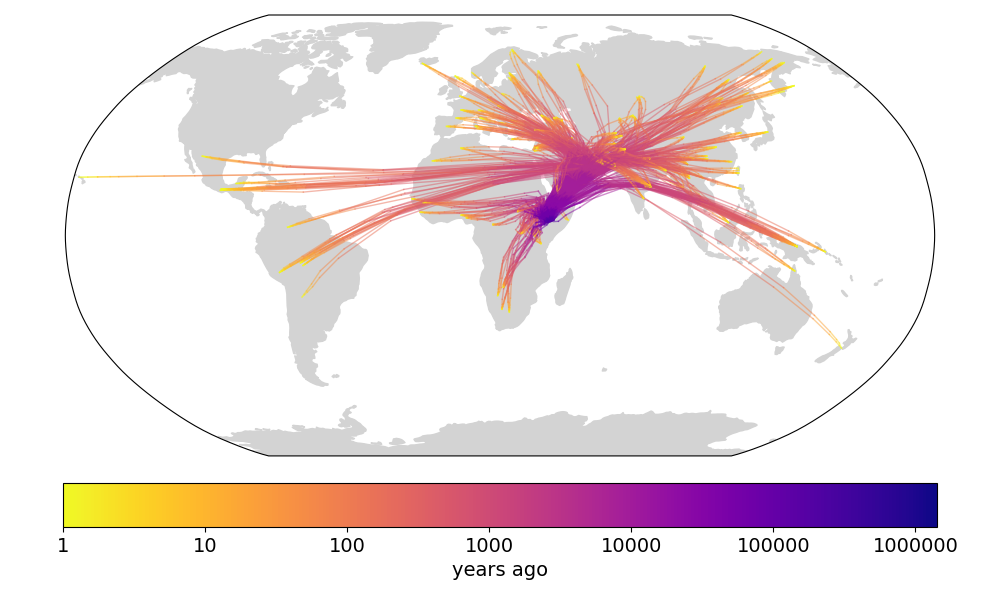
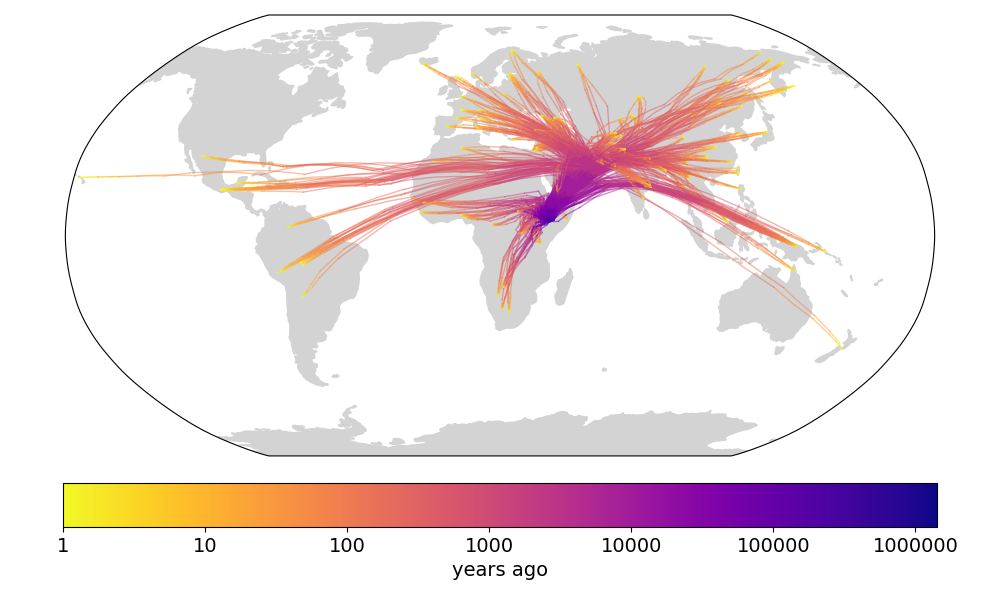
shifted plot added, puneeths comments too

diff --git a/spacetrees-sgdp.html b/spacetrees-sgdp.html
@@ -44,7 +44,7 @@ The Relate-inferred ARG for the Simons Genome Diversity Project was kindly share
 <h3>Comparing with Wohns et al 2022</h3>
 
 <p>
-We first compare to Figure 4b in Wohns et al 2022 (fig 1). They show the mean ancestor location of each Human Genome Diversity Project population over time, converging in northeast Africa. We compare this to the mean ancestor location of each sample in our ARG over time. One key difference is that we work in latitude and longitude rather than Cartesian coordinates, creating trajectories that are less arced. However, despite a different coordinate system, sample, chromosome, and ARG-inference method, the two spatial-inference methods give similar qualitative results -- the non-African sample lineages converging in the middle east and then all lineages meeting in (north)eastern Africa. (todo: one of the most unrealistic things about this is the trans-atlantic movement of indigenous north american sample lineages, add alternative version where lineages cross over the pacific. alternatively, would be fun to show things on dymaxion projection.)
+We first compare to Figure 4b in Wohns et al 2022 (fig 1). They show the mean ancestor location of each Human Genome Diversity Project population over time, converging in northeast Africa. We compare this to the mean ancestor location of each sample in our ARG over time. One key difference is that we work in latitude and longitude rather than Cartesian coordinates, creating trajectories that are less arced. However, despite a different coordinate system, sample, chromosome, and ARG-inference method, the two spatial-inference methods give similar qualitative results -- the non-African sample lineages converging in the middle east and then all lineages meeting in (north)eastern Africa. Our method also shows more variance in mean ancestor location ~1 million years ago, perhaps because we use do not always find the true maximum likelihood ancestor location when the likelihood surface gets very flat, introducing some noise, or because Wohns et al 2022 also average over population. One of the most unrealistic patterns in these plots is the eastward movement of the North American sample lineages back to Eurasia over the Atlantic -- see appendix for ways to avoid this. 
 <img src="IMAGES/wohns_4b_real.png" alt="fig 4b in Wohns et al 2022">
 <img src="IMAGES/wohns_4b.png" alt="comparison to fig 4b in Wohns et al 2022">
 <b>Fig 1:</b> (top) Fig 4b from Wohns et al 2022. (bottom) Our version. (todo: run our method on cartesian coordinates for closer comparison, requires extending method to 3d, or at least plot lines as great circles)
@@ -65,13 +65,13 @@ Finally, we compare to the supplementary video of Wohns et al 2022 (fig 3), whic
 </div>
 <p>
 <img src="IMAGES/group.gif" alt="gif of ancestor locations">
-<b>Fig 3.</b> (top) Supplemental video from Wohns et al 2022. (bottom) Our version. (todo: cartesian coordinates)
+<b>Fig 3.</b> (top) Supplemental video from Wohns et al 2022. (bottom) Our version. (todo: cartesian coordinates, interpolate along great circles for more frames)
 </p>
 
 <h3>Comparing with Grundler et al 2025</h3>
 
 <p>
-Moving on to Grundler et al 2025, we first compare to their Figure 2 (fig 4), which shows the locations of ancestors of particular samples back in time, as well as the mean ancestor trajectory. To facilitate comparison we focus on two samples that are shared between the datasets, one from Thailand and one from Finland (thanks to Mike Grundler for these ids). The shapes of the trajectories are largely the same, the main difference being that our prediction has the ancestors crossing into Africa further south, at the southern end of the Red Sea, whereas by preventing lineages from crossing large water bodies Grundler et al 2025 have the lineages entering Africa further north. This may also be why the oldest ancestors also remain further north in their method. While the mean ancestors move at roughly the same rate in the two methods, we have many fewer lineages remaining outide of Africa ~500 thousand years ago. 
+Moving on to Grundler et al 2025, we first compare to their Figure 2 (fig 4), which shows the locations of ancestors of particular samples back in time, as well as the mean ancestor trajectory. To facilitate comparison we focus on two samples that are shared between the datasets, one from Thailand and one from Finland (thanks to Mike Grundler for these ids). The shapes of the mean trajectories are largely the same, the main difference being that our prediction has the ancestors crossing into Africa further south, at the southern end of the Red Sea, whereas by preventing lineages from crossing large water bodies Grundler et al 2025 have the lineages entering Africa further north. This may also be why the oldest mean ancestors also remain further north in their method. Further, while the mean ancestors move at roughly the same rate in the two methods, we have many fewer lineages remaining outide of Africa ~500 thousand years ago. The reason for this remains unclear to us.
 <img src="IMAGES/grundler_2_real.png" alt="grundler fig 2"><img src="IMAGES/grundler_2_legend.png" alt="grundler fig 2 legend" style="width:20%">
 <img src="IMAGES/grundler_2.png" alt="our version of grundler fig 2">
 <b>Fig 4.</b> (top) Two panels from Figure 2 in Grundler et al 2025. (bottom) Our version. (todo: great circles, finer time resolution)
@@ -92,6 +92,14 @@ Ancestral recombination graphs allow for new methods of spatial inference. Here 
 
 <p>
 One next step would be a more quantitative comparison of spatial inference method, e.g., applying all three methods to the same ARG and measuring distances between inferred ancestor locations (and perhaps also against true ancestor locations from simulations). Alternatively, one could do a more quantitative comparison of ARG-inference method on spatial inference, e.g., applying the same spatial-inference method to ARGs from tsinfer+tsdate, Relate, SINGER, ARGweaver, etc.
+</p>
+
+<h2>Appendix</h2>
+
+<p>
+The reason our plots above show the North American sample lineages crossing back to Eurasia over the Atlantic (fig 1-3) is only because of where zero longitude is. If we shift all longitudes so that zero longitude is now in the Pacific and then run our method, we see the North American sample lineages crossing back to Eurasia over the Pacific (fig A1). Working in other projections may create even more realistic visualizations.
+<img src="IMAGES/wohns_4b_shifted.png" alt="our shifted version of wohns fig 4b">
+<b>Fig A1.</b> Our version of Figure 4b in Wohns et al 2022, with zero longitude shifted into the Pacific.
 </p>
 
 <h2>Acknowledgements</h2>
